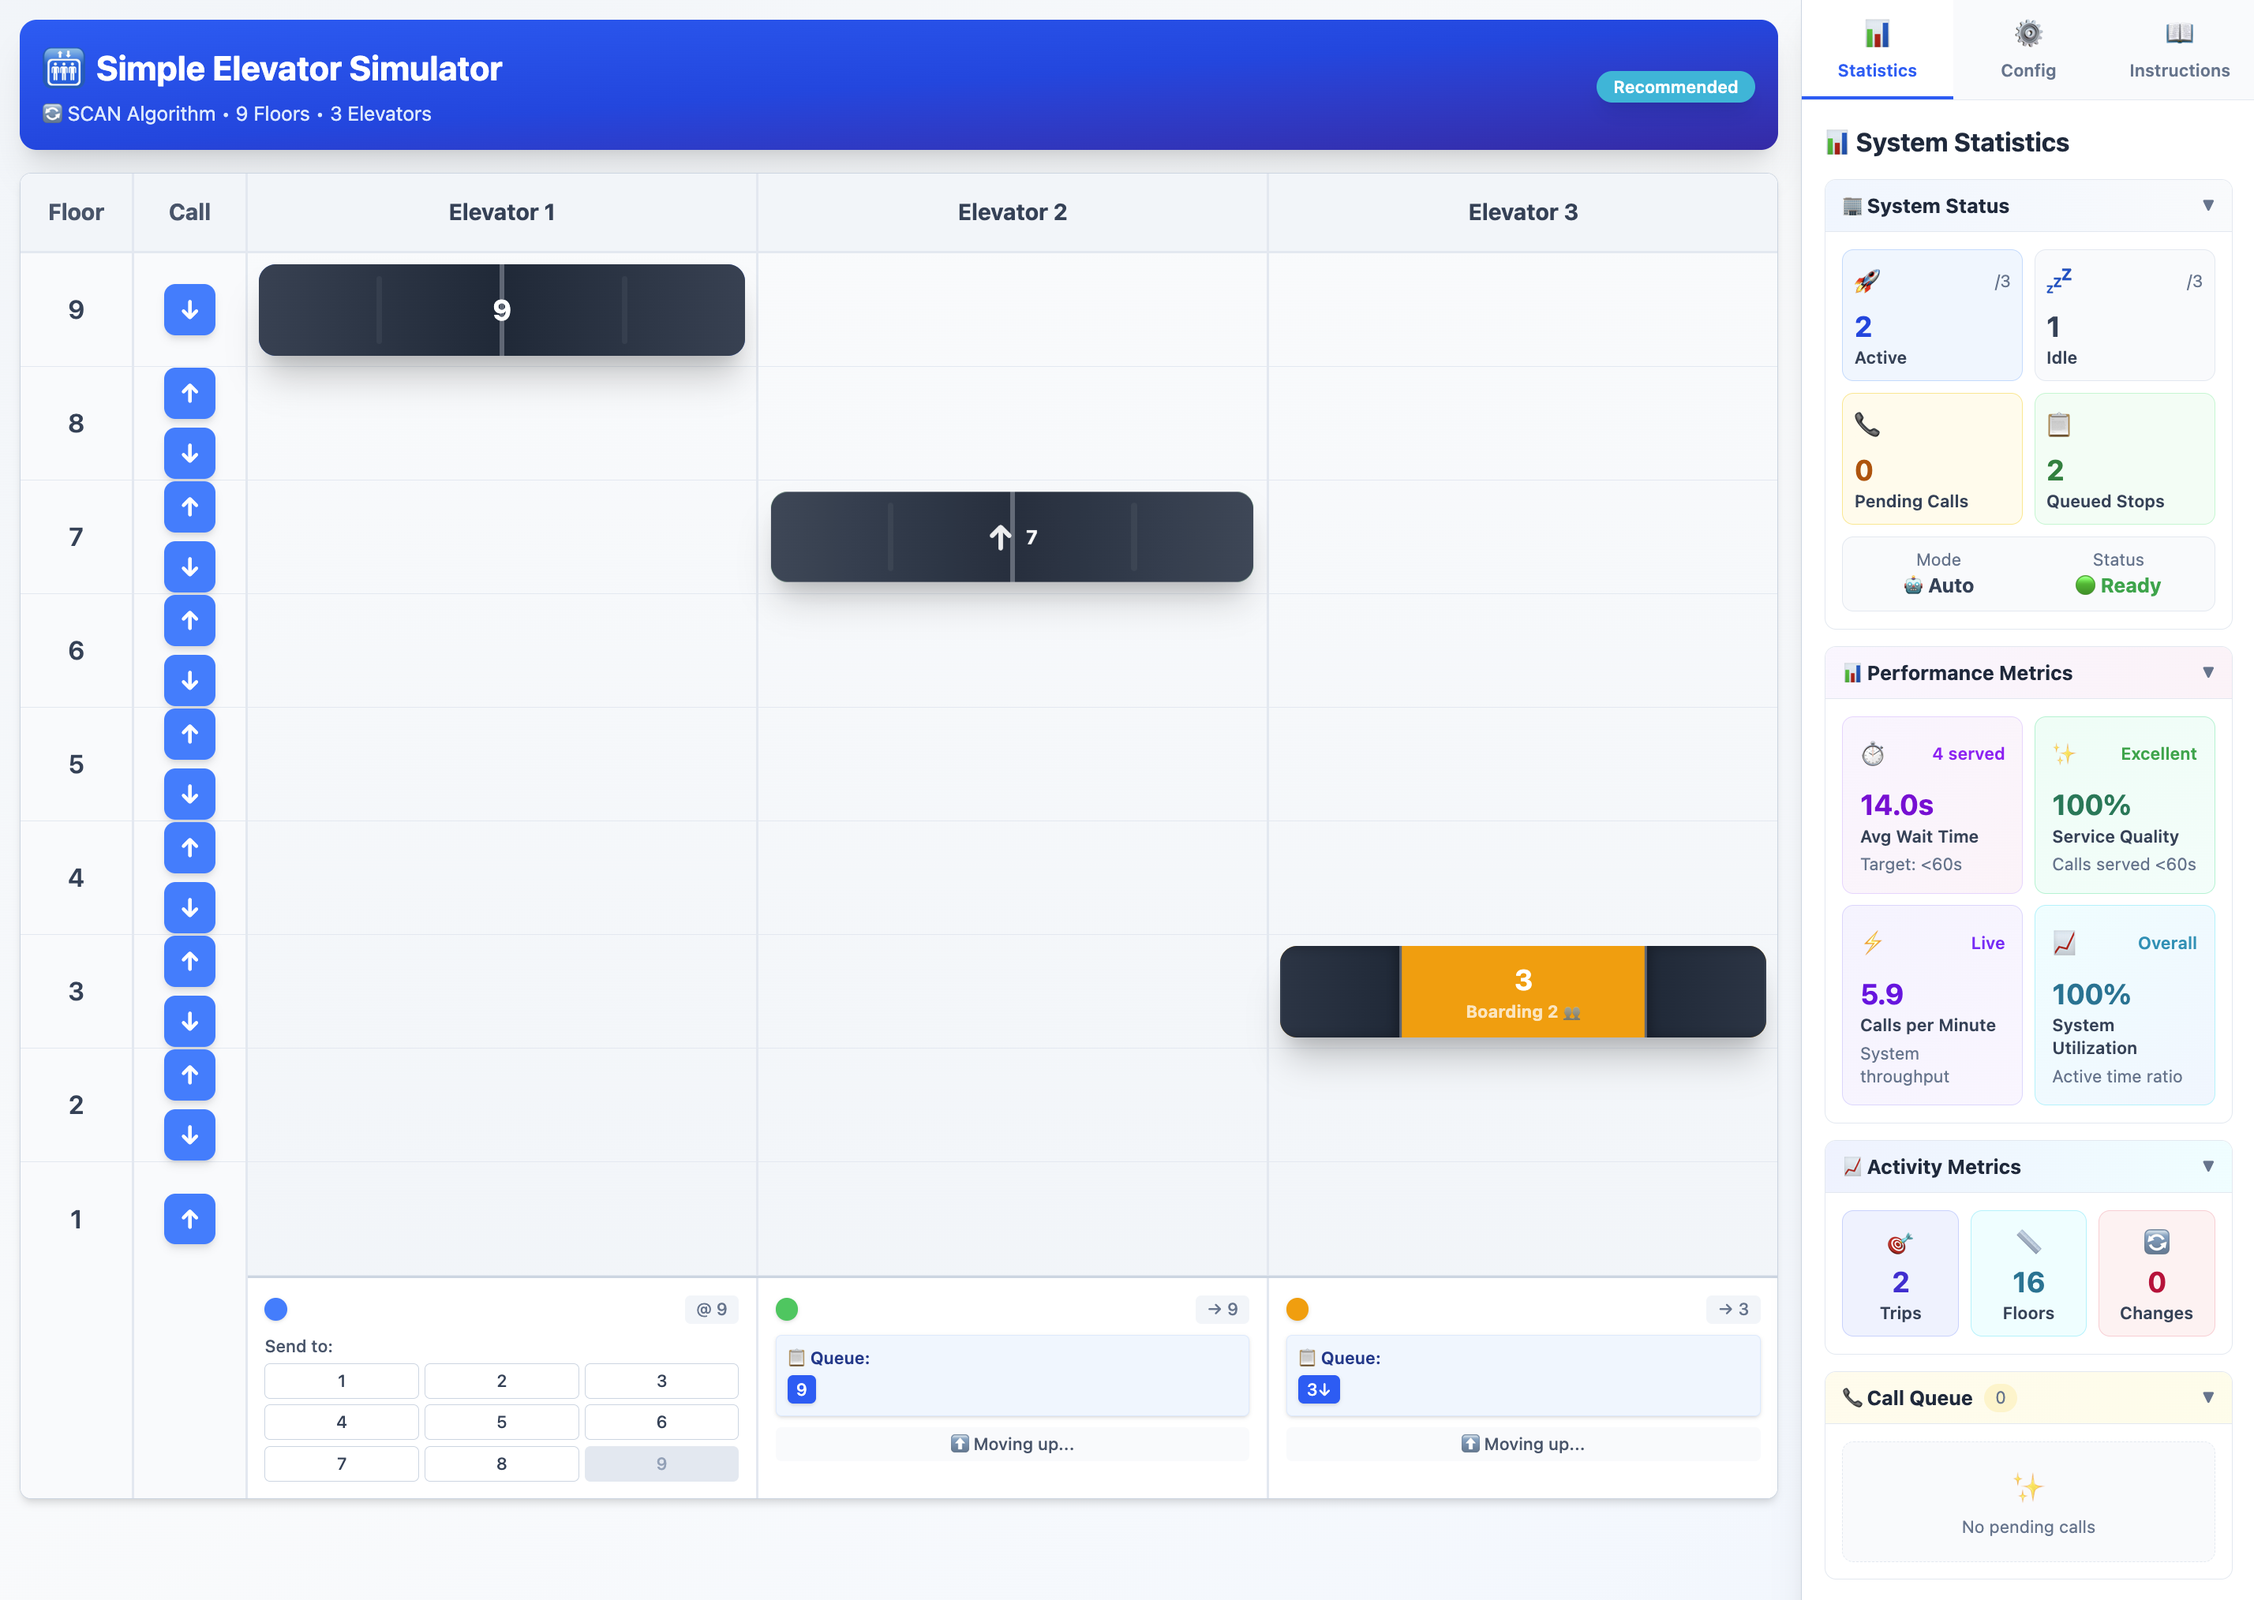
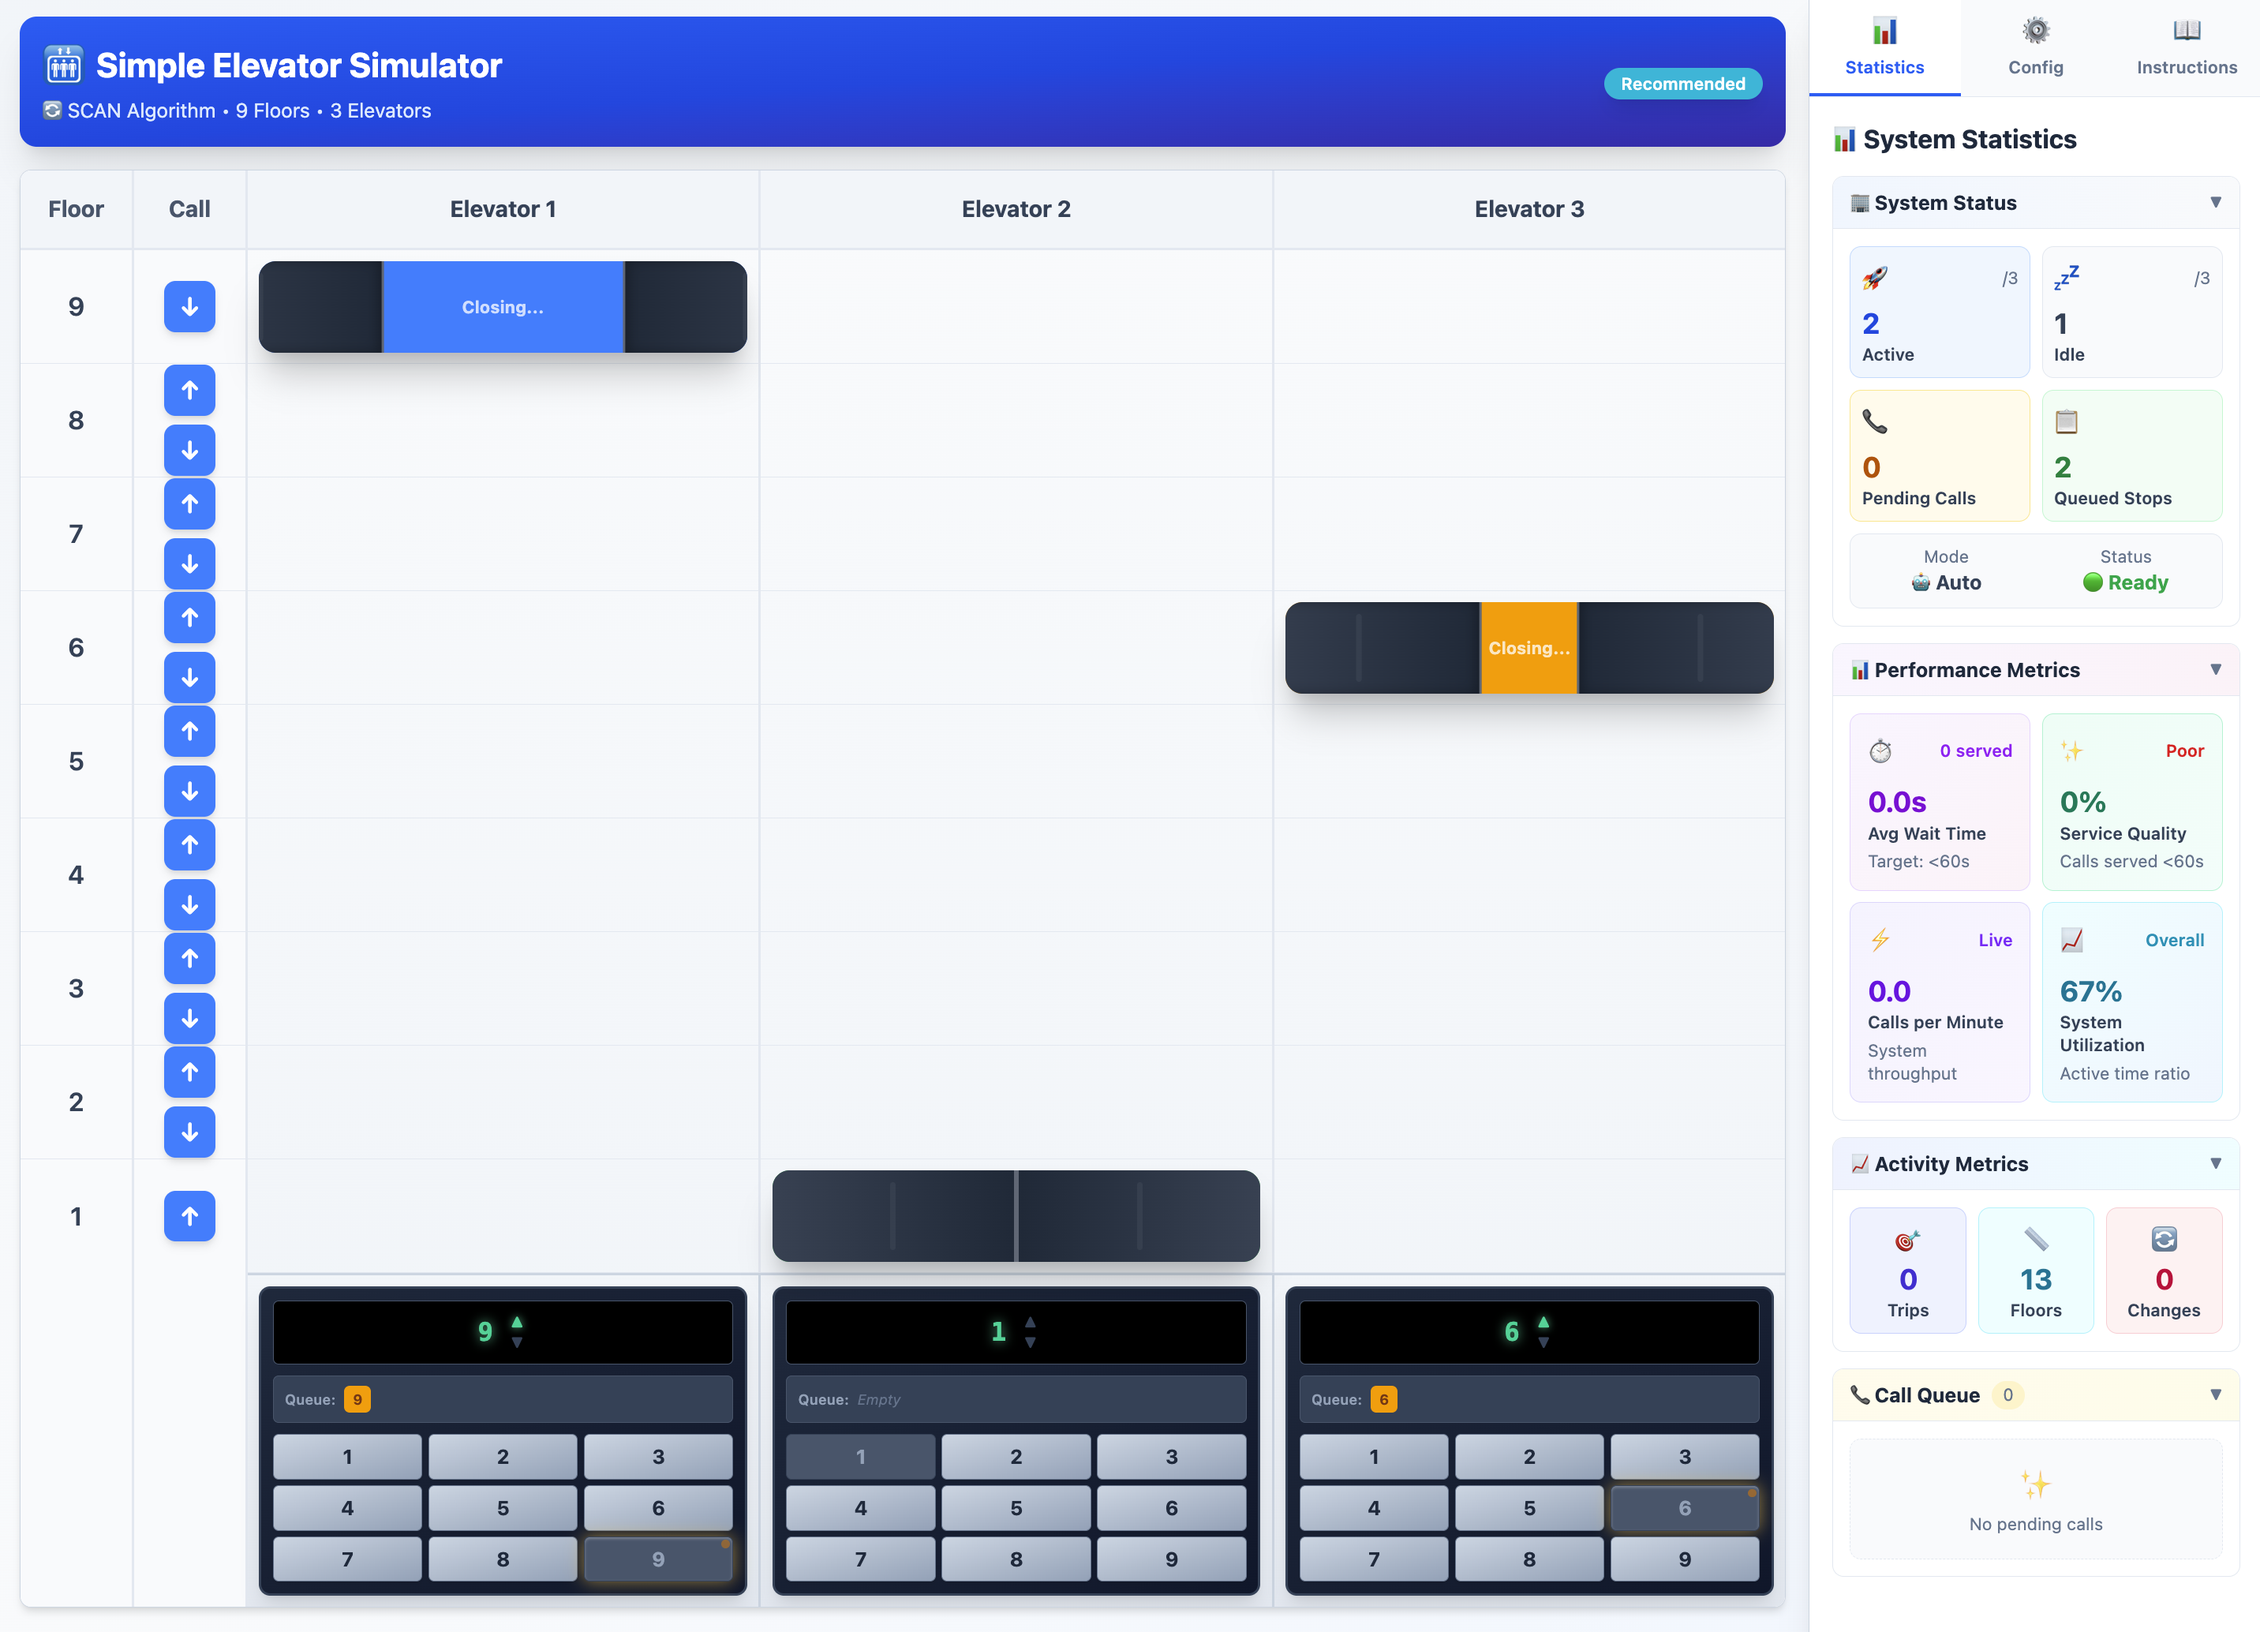
refactor: streamline BuildingVisualization and ElevatorCar components for improved readability and UI consistency

diff --git a/src/components/BuildingVisualization.jsx b/src/components/BuildingVisualization.jsx
@@ -1,5 +1,5 @@
 import ElevatorCar from './ElevatorCar'
-import { generateFloors, getElevatorColorClass } from '../utils/elevatorUtils'
+import { generateFloors } from '../utils/elevatorUtils'
 
 const BuildingVisualization = ({ numFloors, numElevators, elevators, calls, callElevator, moveElevator }) => {
     const floors = generateFloors(numFloors)
@@ -97,45 +97,56 @@ const BuildingVisualization = ({ numFloors, numElevators, elevators, calls, call
                                     
                                     {/* LCD Display - Like real elevator displays */}
                                     <div className="mb-2 bg-black rounded p-2 border border-slate-600 shadow-inner">
-                                        <div className="flex items-center justify-between gap-2">
-                                            {/* Left side: Floor Display and Direction Arrows */}
-                                            <div className="flex items-center gap-2">
-                                                <div className="flex items-center gap-1.5">
-                                                    <div className={`w-2 h-2 rounded-full ${getElevatorColorClass(elevator.id)} shadow-sm`}></div>
-                                                    <span className="text-emerald-400 font-mono text-lg font-bold tracking-wider" style={{textShadow: '0 0 8px rgba(52, 211, 153, 0.8)'}}>
-                                                        {elevator.currentFloor}
-                                                    </span>
+                                        <div className="flex items-center justify-center gap-2">
+                                            {/* Current Floor */}
+                                            <span className="text-emerald-400 font-mono text-lg font-bold tracking-wider" style={{textShadow: '0 0 8px rgba(52, 211, 153, 0.8)'}}>
+                                                {elevator.currentFloor}
+                                            </span>
+                                            
+                                            {/* Direction Arrows */}
+                                            <div className="flex flex-col gap-0.5">
+                                                <div className={`w-4 h-3 flex items-center justify-center ${
+                                                    elevator.isMoving && elevator.direction === 'up' 
+                                                        ? 'text-emerald-400' 
+                                                        : 'text-slate-700'
+                                                }`} style={elevator.isMoving && elevator.direction === 'up' ? {textShadow: '0 0 6px rgba(52, 211, 153, 0.8)'} : {}}>
+                                                    <span className="text-xs">▲</span>
                                                 </div>
-                                                
-                                                {/* Direction Arrows */}
-                                                <div className="flex flex-col gap-0.5">
-                                                    <div className={`w-4 h-3 flex items-center justify-center ${
-                                                        elevator.isMoving && elevator.direction === 'up' 
-                                                            ? 'text-emerald-400' 
-                                                            : 'text-slate-700'
-                                                    }`} style={elevator.isMoving && elevator.direction === 'up' ? {textShadow: '0 0 6px rgba(52, 211, 153, 0.8)'} : {}}>
-                                                        <span className="text-xs">▲</span>
-                                                    </div>
-                                                    <div className={`w-4 h-3 flex items-center justify-center ${
-                                                        elevator.isMoving && elevator.direction === 'down' 
-                                                            ? 'text-amber-400' 
-                                                            : 'text-slate-700'
-                                                    }`} style={elevator.isMoving && elevator.direction === 'down' ? {textShadow: '0 0 6px rgba(251, 191, 36, 0.8)'} : {}}>
-                                                        <span className="text-xs">▼</span>
-                                                    </div>
+                                                <div className={`w-4 h-3 flex items-center justify-center ${
+                                                    elevator.isMoving && elevator.direction === 'down' 
+                                                        ? 'text-amber-400' 
+                                                        : 'text-slate-700'
+                                                }`} style={elevator.isMoving && elevator.direction === 'down' ? {textShadow: '0 0 6px rgba(251, 191, 36, 0.8)'} : {}}>
+                                                    <span className="text-xs">▼</span>
                                                 </div>
                                             </div>
-                                            
-                                            {/* Right side: Queue indicator */}
-                                            <div className="text-[10px] text-cyan-400 font-mono" style={{textShadow: '0 0 4px rgba(34, 211, 238, 0.6)'}}>
+                                        </div>
+                                    </div>
+
+                                    {/* Queue Display - Below LCD - Always visible */}
+                                    <div className="mb-2 px-2 py-1.5 bg-slate-700 rounded border border-slate-600">
+                                        <div className="flex items-center gap-1.5 min-h-[20px]">
+                                            <span className="text-[10px] text-slate-400 font-semibold">Queue:</span>
+                                            <div className="flex flex-wrap gap-1">
                                                 {elevator.queue && elevator.queue.length > 0 ? (
-                                                    elevator.queue.map((q) => {
+                                                    elevator.queue.map((q, idx) => {
                                                         const floor = q.floor || q
                                                         const dir = q.callDirection
-                                                        return `${floor}${dir ? (dir === 'up' ? '↑' : '↓') : ''}`
-                                                    }).join(' ')
+                                                        return (
+                                                            <span 
+                                                                key={`queue-${elevator.id}-${idx}`}
+                                                                className={`px-1.5 py-0.5 rounded text-[10px] font-bold ${
+                                                                    idx === 0 
+                                                                        ? 'bg-amber-500 text-amber-900' 
+                                                                        : 'bg-slate-600 text-slate-200'
+                                                                }`}
+                                                            >
+                                                                {floor}{dir ? (dir === 'up' ? '↑' : '↓') : ''}
+                                                            </span>
+                                                        )
+                                                    })
                                                 ) : (
-                                                    <span className="text-slate-700">—</span>
+                                                    <span className="text-[10px] text-slate-500 italic py-0.5">Empty</span>
                                                 )}
                                             </div>
                                         </div>

diff --git a/src/components/ElevatorCar.jsx b/src/components/ElevatorCar.jsx
@@ -125,28 +125,22 @@ const ElevatorCar = ({ elevator, numFloors, elevatorIndex }) => {
             {/* Elevator content */}
             <div className="relative z-10 flex flex-col items-center">
                 {elevator.operationalState === ELEVATOR_STATES.MOVING ? (
-                    <div className="flex items-center gap-2">
-                        <span className="text-2xl animate-pulse">
-                            {elevator.direction === 'up' ? '↑' : '↓'}
-                        </span>
-                        <span className="text-sm">{elevator.currentFloor}</span>
-                    </div>
+                    <span className="text-3xl animate-pulse">
+                        {elevator.direction === 'up' ? '↑' : '↓'}
+                    </span>
                 ) : isDoorsOpen ? (
                     <div className="flex flex-col items-center">
-                        <span className="text-xl">{elevator.currentFloor}</span>
                         {isDoorAnimating ? (
                             <span className="text-xs opacity-75">
                                 {elevator.operationalState === ELEVATOR_STATES.DOORS_OPENING ? 'Opening...' : 'Closing...'}
                             </span>
                         ) : (
-                            <span className="text-xs opacity-75 animate-pulse">
+                            <span className="text-sm opacity-75 animate-pulse">
                                 Boarding {elevator.passengerCount || 0} 👥
                             </span>
                         )}
                     </div>
-                ) : (
-                    <span className="text-xl">{elevator.currentFloor}</span>
-                )}
+                ) : null}
             </div>
 
             {/* Arrival indicator (ding!) */}
